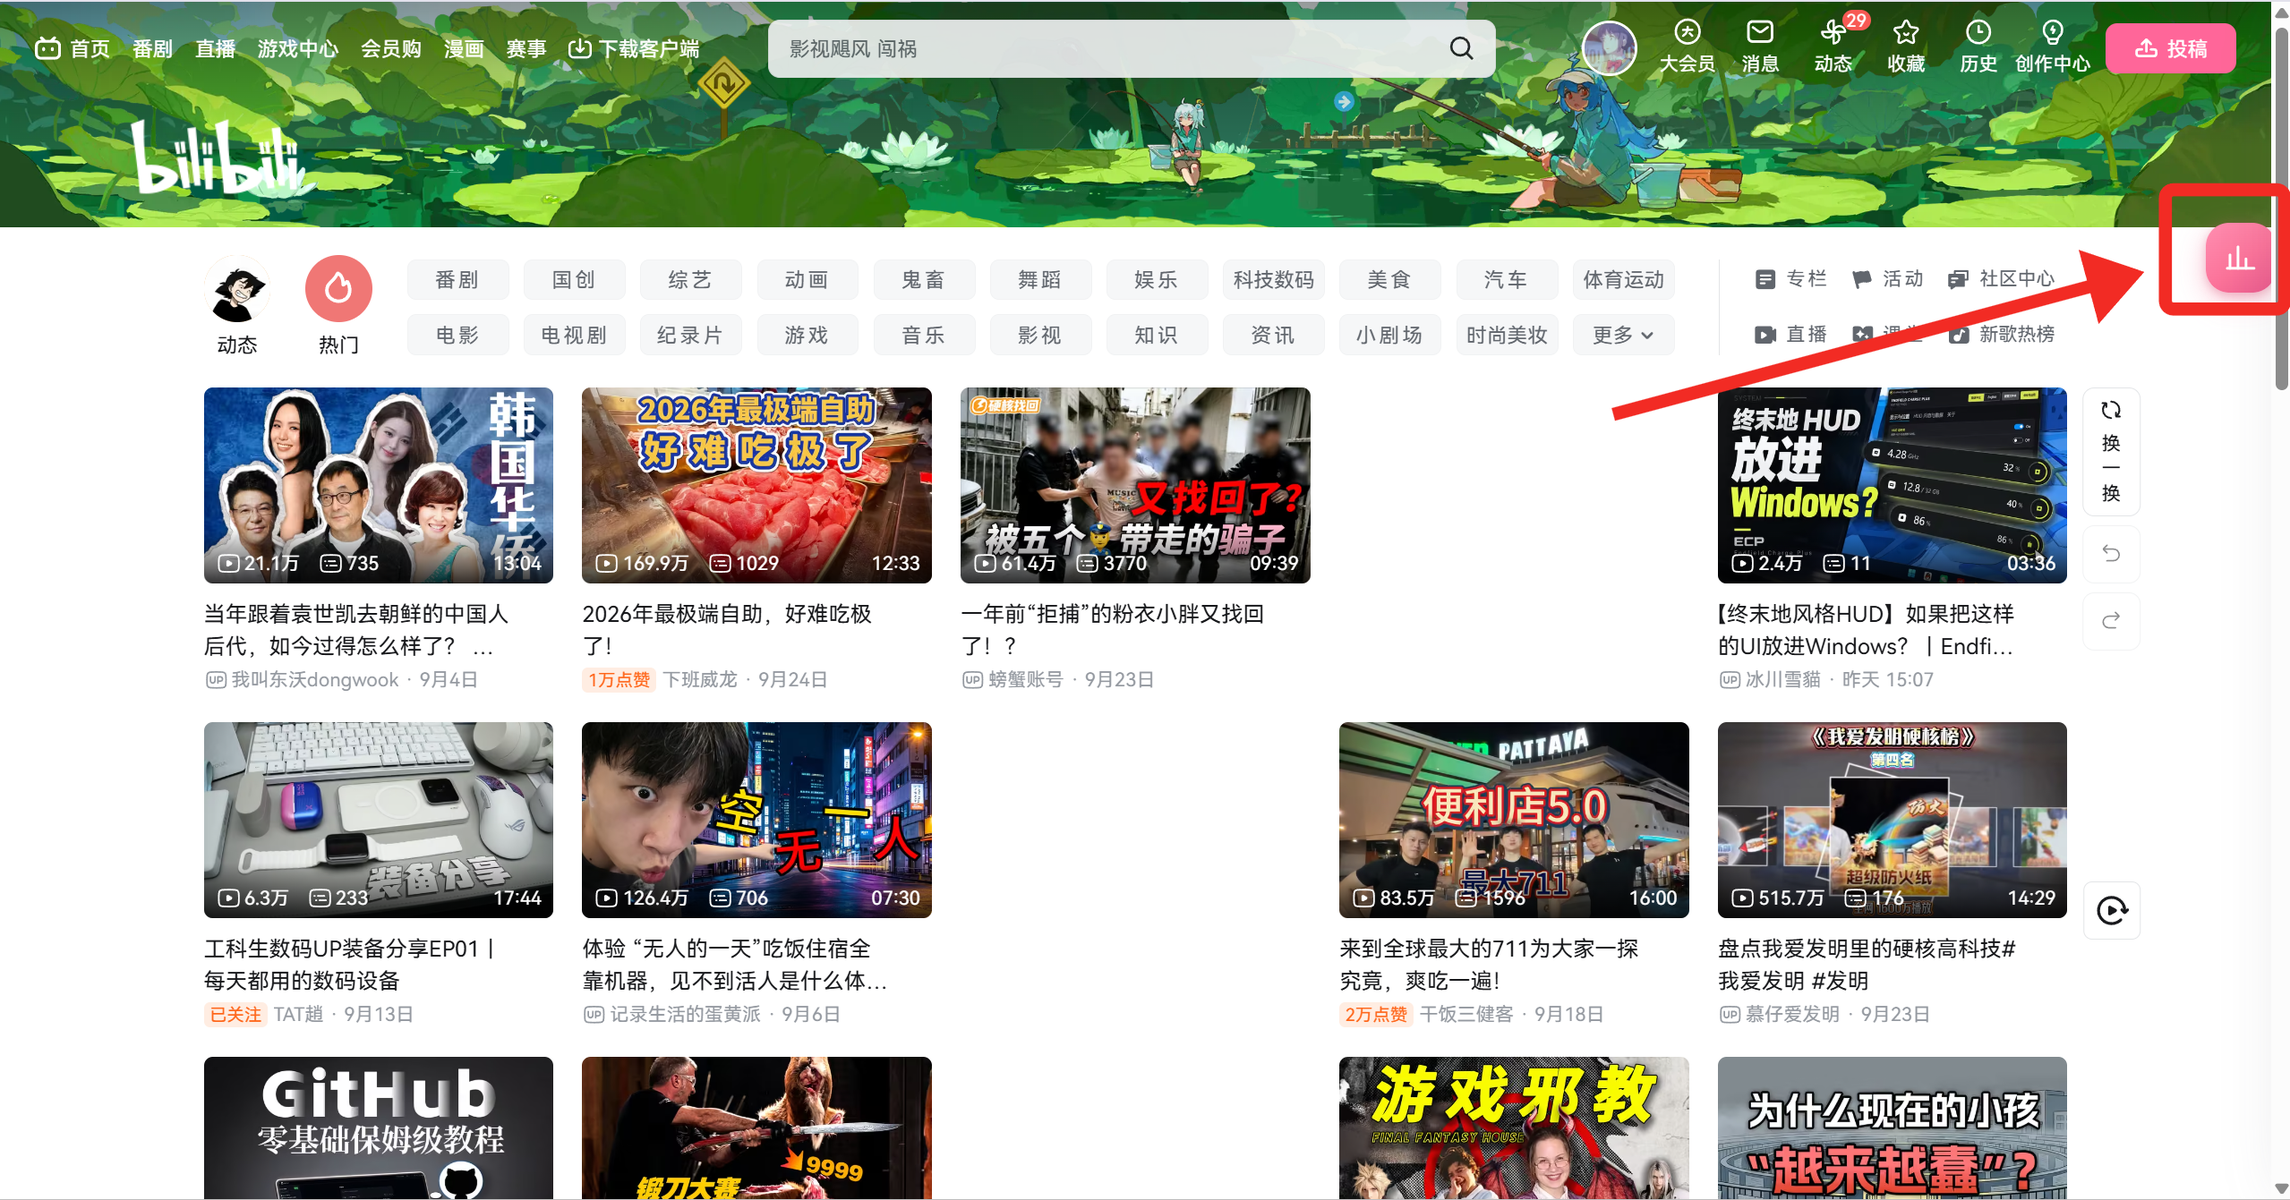
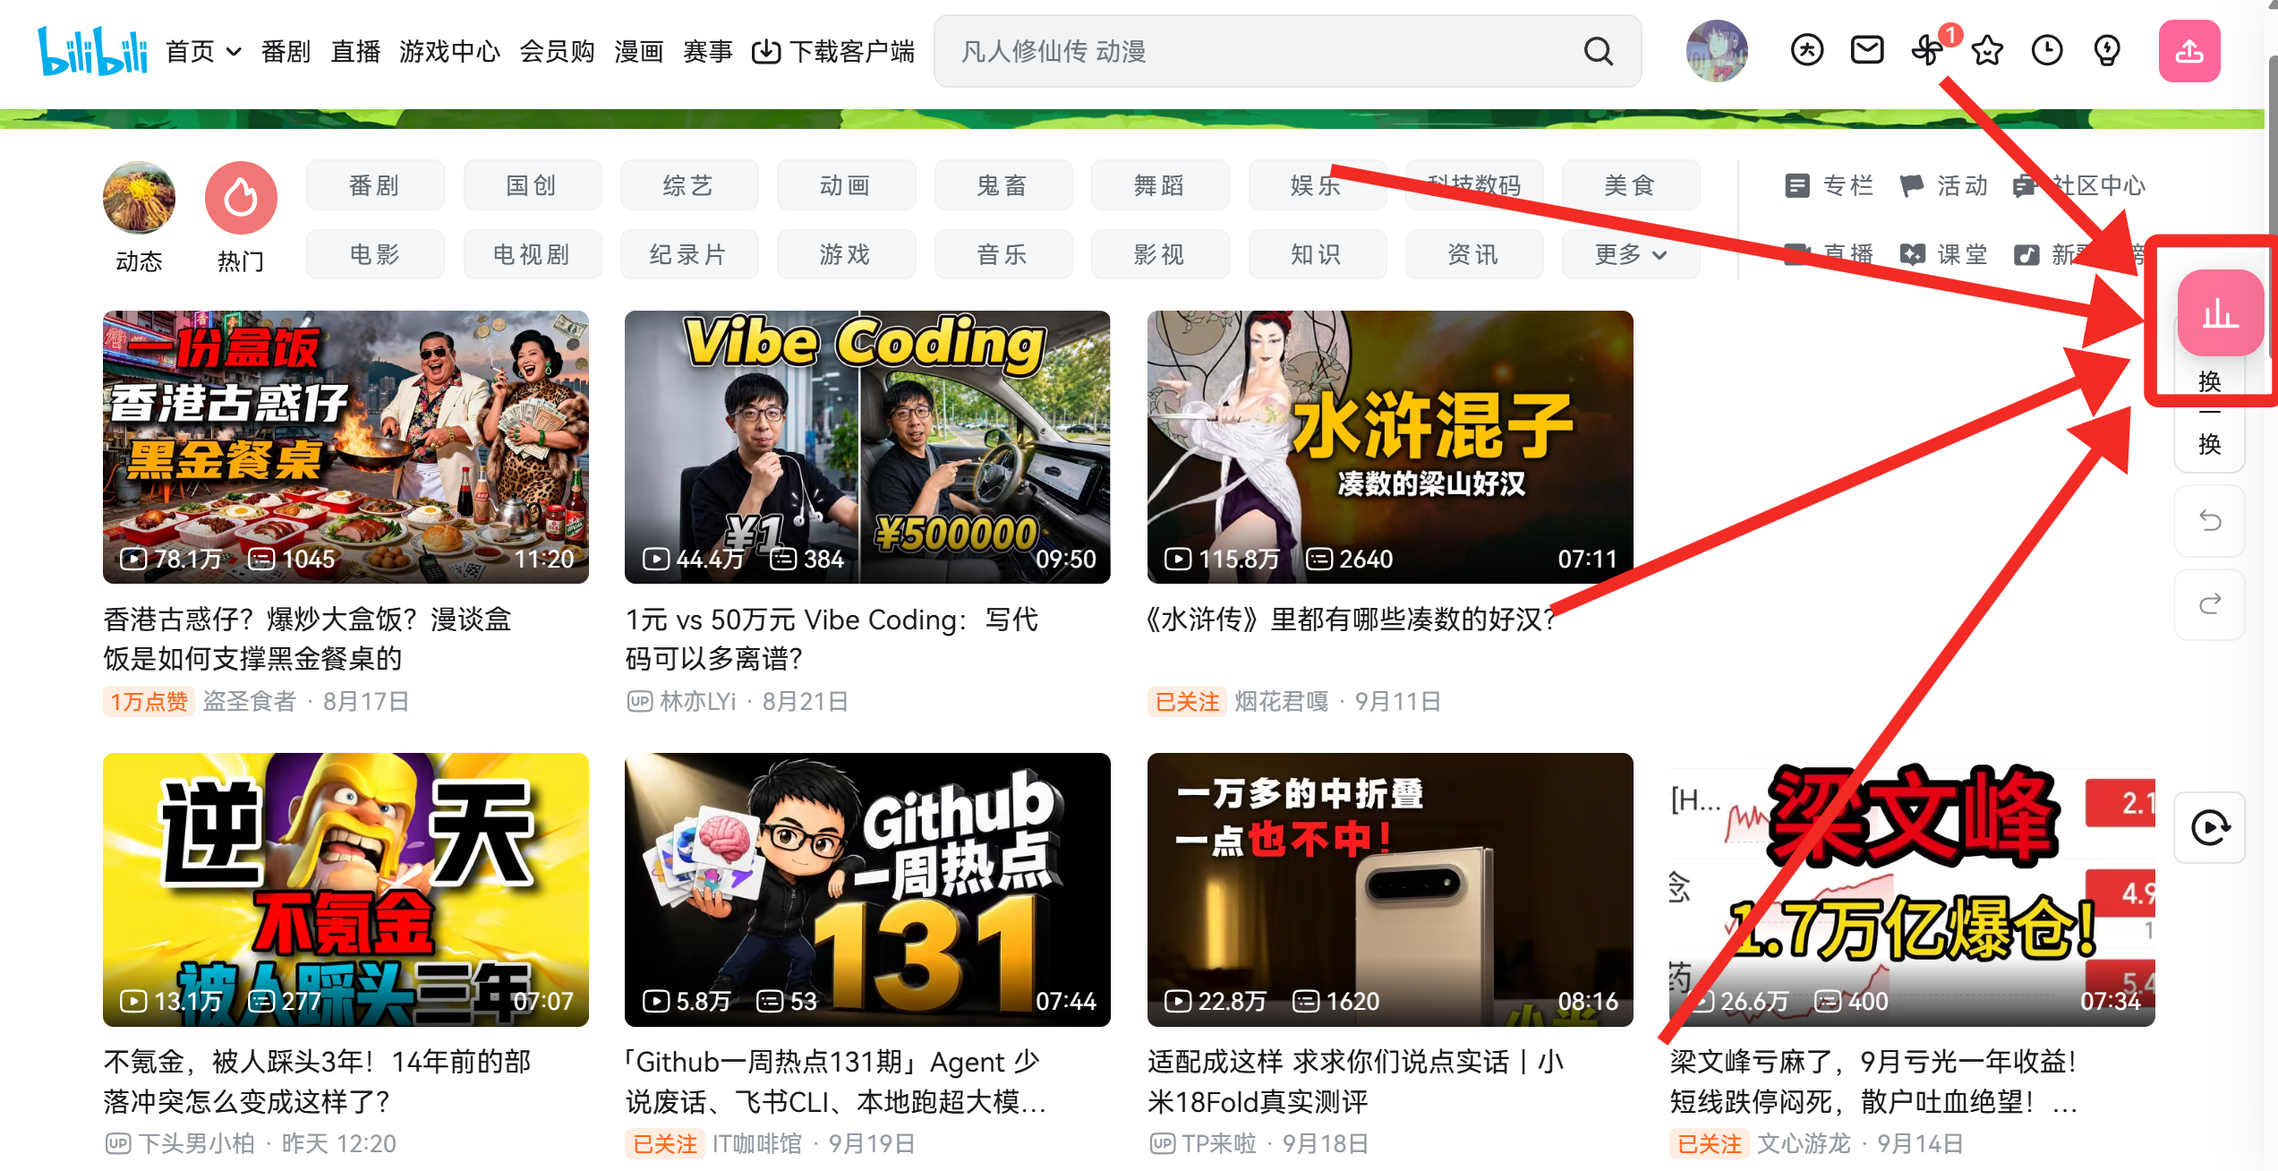
docs: 更新 README 截图与项目说明

diff --git a/README.md b/README.md
@@ -1,139 +1,175 @@
-# Bilibili Watch Panel · B站个人观看数据面板
+# Bilibili Watch Panel
 
-![version](https://img.shields.io/badge/version-0.7.0-fb7299)
-![Tampermonkey](https://img.shields.io/badge/Tampermonkey-compatible-4a90d9)
-![license](https://img.shields.io/badge/license-MIT-green)
+<p align="center">
+  <strong>本地优先的 B 站个人观看数据面板</strong><br>
+  在不上传观看数据的前提下，记录观看行为、分析观看质量，并生成一份可读的本周使用报告。
+</p>
 
-一个纯本地运行的 Tampermonkey 用户脚本：统计并可视化你在 B 站网页版看了什么、看了多久、看谁的，并生成卡片式「本周使用报告」。
+<p align="center">
+  <a href="https://github.com/Gavin-gwj/bilibili-watch-panel/releases/tag/v0.7.1"><img src="https://img.shields.io/badge/version-0.7.1-fb7299" alt="version"></a>
+  <img src="https://img.shields.io/badge/Tampermonkey-compatible-4a90d9" alt="Tampermonkey compatible">
+  <img src="https://img.shields.io/badge/storage-local--only-6c757d" alt="local only">
+  <img src="https://img.shields.io/badge/license-MIT-green" alt="MIT license">
+</p>
 
-> 安装文件：[`bilibili-watch-panel.user.js`](./bilibili-watch-panel.user.js)
-
----
-
-## ⚠ 合规与隐私声明（请先读）
-
-- 只统计**我自己本机浏览器**中的观看行为，数据**仅存在浏览器本地**（`GM_setValue`）。
-- **不上传任何数据**，仓库中也不包含任何观看数据。
-- **不爬取、不存储他人用户数据合集**。
-- **不破解、不绕过任何付费/会员机制**。
-- **不干扰 B 站正常功能与计费体系**。
-- 只读取页面**已公开加载**的数据，不批量请求接口。
-- 除「视频信息 API 兜底」（仅在页面信息缺失时触发一次并缓存 7 天）外，不额外发送任何请求。
-
-> 观看数据只存在于你本机浏览器的 Tampermonkey 存储中，与 GitHub 仓库完全无关。卸载脚本或清除浏览器扩展数据后记录会消失，请定期使用面板内的「导出 JSON 备份」。
+<p align="center">
+  <a href="https://github.com/Gavin-gwj/bilibili-watch-panel/releases/tag/v0.7.1">下载 v0.7.1</a> ·
+  <a href="./bilibili-watch-panel.user.js">查看用户脚本</a> ·
+  <a href="./CHANGELOG.md">版本记录</a>
+</p>
 
 ---
 
-## 安装说明（一键安装）
+## 这是什么？
 
-1. 安装浏览器扩展 **篡改猴 / Tampermonkey**（Chrome、Edge 均可在扩展商店获取）。
-2. 打开仓库中的 [`bilibili-watch-panel.user.js`](./bilibili-watch-panel.user.js)。
-3. 点击页面右上角的 **Raw**，Tampermonkey 会自动弹出安装页；若未弹出，则：
-   - 打开 Tampermonkey 面板 → 「添加新脚本」；
-   - 全选删除默认内容，粘贴本脚本全文；
-   - `Ctrl + S` 保存。
-4. 打开任意 B 站页面（视频页、首页、动态页均可），页面右上角会出现粉色浮动按钮（圆角方形，线性图表图标）。
-5. 点击按钮打开面板；采集观看数据需在**视频页**播放视频，其余页面仅用于查看数据。
+Bilibili Watch Panel 是一个**纯本地运行的 Tampermonkey 用户脚本**。它把分散在 B 站观看过程中的信息，整理成一个轻量的侧边数据面板：
 
----
+- 看了多久：今日、本周、全部累计时长
+- 看了什么：视频数量、观看记录、近一年观看热力图
+- 看谁的：UP 主排行、观看次数与时长占比
+- 看得怎么样：完播率、平均进度、重复观看和有效观看时长
+- 怎么变化：播放会话、中断率、每日趋势与本周报告
 
-## 界面截图
+> 截图中的数据来自本机浏览器示例，仅用于展示界面；脚本不会读取或上传其他用户的数据。
 
-脚本会在 B 站页面右侧显示粉色浮动按钮，点击后打开观看数据面板：
+## 从页面到面板
 
-![B 站页面中的面板入口](./docs/screenshots/entry-button.png)
+<p align="center">
+  <img src="./docs/screenshots/entry-button.png" alt="B站页面中的浮动入口" width="920">
+</p>
 
-面板按使用场景分为四个 Tab：
+在任意 B 站页面右侧，脚本提供一个可拖动的粉色浮动入口。点击后打开侧边面板；入口位置会在本地记忆，并在浏览器缩放或窗口尺寸变化后自动重新吸附到当前视口内。
 
-| Tab | 截图 | 可以看到什么 |
+## 界面一览
+
+<table>
+  <tr>
+    <td width="50%" valign="top">
+      <h3>今日 · 现在的观看状态</h3>
+      <img src="./docs/screenshots/panel-today.png" alt="今日数据面板">
+      <p>查看今日总时长、视频数、较昨日变化、观看质量和播放会话状态。</p>
+    </td>
+    <td width="50%" valign="top">
+      <h3>本周 · 一周观看节奏</h3>
+      <img src="./docs/screenshots/panel-week.png" alt="本周数据面板">
+      <p>查看近 7 / 30 天趋势、连续观看天数、质量指标和本周洞察。</p>
+    </td>
+  </tr>
+  <tr>
+    <td width="50%" valign="top">
+      <h3>全部 · 长期观看档案</h3>
+      <img src="./docs/screenshots/panel-all.png" alt="全部数据面板">
+      <p>查看累计数据、近一年热力图，并搜索或筛选完整观看记录。</p>
+    </td>
+    <td width="50%" valign="top">
+      <h3>报告 · 一页式周报</h3>
+      <img src="./docs/screenshots/panel-report.png" alt="本周使用报告">
+      <p>把本周总览、最爱 UP 主和每日时长整理成适合保存的报告卡片。</p>
+    </td>
+  </tr>
+</table>
+
+## 程序设计自述
+
+### 1. 本地优先：数据只在浏览器里流动
+
+脚本采用 Tampermonkey 的本地存储能力保存观看记录，不建立账号、不上传数据、不设置服务端。数据流可以概括为：
+
+```text
+B站页面公开信息
+        │
+        ▼
+视频事件采集 → 本地记录合并 → 统计口径计算 → Shadow DOM 面板渲染
+                                      │
+                                      ├─ JSON 导出 / 导入
+                                      └─ 本周报告图片导出
+```
+
+脚本只在视频页处理播放进度；首页、动态页等其他页面可以打开面板查看数据，但不会因为页面上的内嵌视频而写入观看记录。
+
+### 2. 以播放事件为核心，而不是用定时器猜测
+
+观看时长来自 `video.currentTime` 的实际推进量：暂停、卡顿、切到后台和缓冲不会被伪装成有效观看时长。v0.7 起，每条记录还会保存已结束播放会话的：
+
+- 开始时间与结束时间
+- 会话内有效观看秒数
+- 暂停次数、切后台次数和跳转次数
+- 自然结束、暂停、离开页面等结束原因
+
+这样做的好处是，统计结果能够区分“打开过视频”和“真正观看过视频”，并支持中断率、平均单次会话等质量指标。
+
+### 3. Shadow DOM 隔离界面样式
+
+面板挂载在独立的 Shadow DOM 中，颜色、圆角、阴影、间距和字体由设计令牌统一管理。这样既能保持 Bilibili Studio 风格的浅灰工作台视觉，也能减少 B 站页面自身 CSS 对面板的干扰。
+
+面板由四个互补的视图组成：
+
+| 视图 | 解决的问题 | 主要信息 |
 | --- | --- | --- |
-| 今日 | ![今日数据面板](./docs/screenshots/panel-today.png) | 今日总时长、观看视频数、活跃时段、UP 主分布和当天记录 |
-| 本周 | ![本周数据面板](./docs/screenshots/panel-week.png) | 近 7 天时长趋势、连续观看天数和本周 Top5 UP 主 |
-| 全部 | ![全部数据面板](./docs/screenshots/panel-all.png) | 累计统计、近一年热力图、搜索和完整观看记录 |
-| 报告 | ![本周使用报告](./docs/screenshots/panel-report.png) | 本周总览、最爱 UP 主、每日时长图表和导出入口 |
+| 今日 | 我今天看了什么？ | 时长、视频数、质量、会话、趋势 |
+| 本周 | 我这周的节奏如何？ | 近 7 / 30 天、连续观看、环比、洞察 |
+| 全部 | 我的长期观看档案是什么？ | 累计统计、热力图、搜索、记录详情 |
+| 报告 | 如何快速回顾这一周？ | 总览、Top5 UP 主、每日图表、总结 |
 
-截图中的数据来自本机浏览器示例，仅用于展示界面；实际内容会随着你的观看记录变化。
+### 4. 面向长期使用的数据兼容策略
 
----
+脚本使用 schema 版本管理本地数据。升级时会兼容已有旧记录，补齐缺失字段，但不会根据旧记录的累计秒数虚构历史完播或播放会话；JSON 导入则采用合并与去重策略，避免重复导入造成重复统计。
 
-## 功能说明
+## 核心功能
 
-### 1. 个人观看数据面板
+### 观看数据
 
-| Tab | 内容 |
-| --- | --- |
-| 今日 | 今日总时长、视频数、观看质量（完播率 / 平均进度 / 重复观看 / 平均单视频时长）、会话中断率 / 平均单次会话、活跃时段、记录进度 |
-| 本周 | 近 7 天时长、每日完播率和平均进度图表、Top5 UP 主、连续观看天数、环比上周 |
-| 全部 | 累计质量摘要、会话分析、进度 / 重看次数、已完播 / 未完播 / 进度未知筛选、近一年热力图；点击记录可查看详情 |
-| 报告 | 卡片式本周使用报告，增加完播率、平均进度、重复观看、中断率和平均单次会话摘要，可导出 PNG 图片 |
+- 今日、本周、全部和报告四个 Tab
+- 今日 / 本周 / 累计观看时长与视频数
+- 完播率、平均进度、重复观看、平均单视频时长
+- 播放会话数、会话中断率、平均单次有效观看时长
+- UP 主排行、每日时长趋势、近一年观看热力图
+- 观看记录搜索、排序、筛选和详情抽屉
 
-观看质量数据全部来自视频元素本地事件：视频总时长、最高播放位置、有效播放会话次数、播放会话边界和完播判定。旧记录会自动补齐字段，但不会根据累计观看秒数伪造完播结果或播放会话。
+### 数据管理
 
-v0.7 起，每条记录会保存已结束播放会话的开始/结束时间、会话内观看秒数、暂停次数、切后台次数、跳转次数和结束原因。点击「今日」或「全部」中的记录，可打开详情抽屉查看首次观看、最近观看、会话数、中断率和平均单次有效观看时长。
+- **导出 JSON**：下载 `bwp-backup-YYYY-MM-DD.json` 本地备份
+- **导入 JSON**：合并记录、补齐信息、去重播放会话
+- **导出报告图片**：生成 `bwp-week-report-YYYY-Www.png`
+- **清空数据**：双重确认，避免误操作
+- **自动更新**：通过 `@updateURL` / `@downloadURL` 检查新版本
 
-### 2. 本周使用报告
+## 安装
 
-- 顶部大数字卡：本周总时长、本周视频数
-- 最爱 UP 主 Top5：名称 + 观看次数 + 时长（带占比条）
-- 每日时长迷你折线卡
-- 观看高峰时段卡：凌晨 / 上午 / 下午 / 晚上四段
-- 底部一句话自动总结
-- 「导出图片」按钮：生成 `bwp-week-report-YYYY-Www.png` 下载
-- 每周日首次打开 B 站时，右下角轻提示，点击直达报告 Tab（`lastReminderWeek` 去重，每周一次）
+1. 安装浏览器扩展 **篡改猴 / Tampermonkey**。
+2. 打开 [`bilibili-watch-panel.user.js`](./bilibili-watch-panel.user.js)。
+3. 点击右上角 **Raw**，Tampermonkey 会打开安装页。
+4. 安装完成后打开任意 B 站页面，点击右侧粉色浮动按钮。
+5. 在视频页播放视频后，面板会开始记录观看数据。
 
-### 3. 数据管理
+也可以直接从 [v0.7.1 Release](https://github.com/Gavin-gwj/bilibili-watch-panel/releases/tag/v0.7.1) 下载脚本。
 
-- **导出 JSON 备份**：面板底部一键下载 `bwp-backup-YYYY-MM-DD.json`，含 `watchRecords` 与归档。
-- **导入 JSON 备份**：面板底部「导入JSON」选择备份文件，按「日期 + bvid」与现有数据合并；同一天同一视频保留时长较大者，合并并去重播放会话，`openCount` 取较大值，缺失的标题 / UP 主信息自动补齐。
-- **清空全部数据**：带**两次确认**，清空后不可恢复。
-- **拖动浮动按钮**：按住拖动，松手自动吸附左右边缘，位置本地记忆，任意 B 站页面均可使用。
-- **自动更新**：脚本声明了 `@updateURL` / `@downloadURL`，Tampermonkey 会按 `@version` 自动检查新版本。
+## 隐私与合规
 
-### 4. 统计口径
+- 只统计当前浏览器中本人的观看行为。
+- 数据只存储在 Tampermonkey 的本地存储中。
+- 不上传观看数据，不建立服务器账号体系。
+- 不批量爬取，不破解或绕过会员、付费机制。
+- 只读取页面已经公开加载的信息，不干扰 B 站正常功能与计费体系。
+- 除页面信息缺失时的一次性视频信息 API 兜底请求外，不额外发送批量请求；兜底结果会在本地缓存 7 天。
 
-- 按 **实际播放进度（`video.currentTime` 推进量）** 统计，不乘倍速，卡顿/缓冲不计。
-- 同一自然日、同一视频只保留一条记录，重复打开累加时长并增加 `openCount`。
-- 一周以**周一**为起点，周报按 ISO 周标识（如 `2026-W40`）。
-- 数据超过 5000 条自动归档旧记录，保证长期使用不卡顿；归档达到 20000 条上限时会裁剪最旧记录，并在面板内提示。
+> 卸载脚本或清除浏览器扩展数据后，本地记录会消失。建议定期使用「导出 JSON」备份。
 
----
-
-## 常见问题（FAQ）
+## 常见问题
 
 | 问题 | 回答 |
 | --- | --- |
-| 数据存在哪？ | 只存在本机浏览器的 Tampermonkey 扩展存储里（`GM_setValue`）。仓库与任何服务器都收不到你的数据。 |
-| 会不会上传我的数据？ | 不会。脚本没有任何数据上报端点，也不使用 `XMLHttpRequest`/`sendBeacon`。 |
-| 怎么清空数据？ | 面板底部设置区 → 「清空全部数据」→ 两次确认。 |
-| 怎么导出/迁移数据？ | 面板底部 → 「导出JSON」得到完整备份；在新浏览器 / 新设备装好脚本后点「导入JSON」即可合并，重复记录自动去重。 |
-| 会不会拖慢 B 站？ | 心跳每 5 秒一次轻量计算；面板关闭时不渲染图表；关闭面板会销毁全部 Chart 实例；存储写入有 15 秒节流。 |
-| 为什么时长比实际看的少？ | 只统计 `video.currentTime` 的真实推进；卡顿、缓冲、切后台、暂停都不计入。 |
-| B 站改版后不显示数据了怎么办？ | 所有页面选择器集中在脚本的 `SELECTORS` 常量区，改版后只需更新对应选择器，不影响已有数据。 |
-| 会员/番剧/直播会统计吗？ | 不会。只处理 `/video/` 路径，且不破解、不绕过任何付费机制。 |
+| 数据存在哪里？ | 只在本机浏览器的 Tampermonkey 扩展存储中，仓库和服务器都收不到。 |
+| 为什么时长比实际看的少？ | 脚本只统计 `video.currentTime` 的真实推进；暂停、卡顿、缓冲和切后台不计入。 |
+| 如何迁移到新设备？ | 在旧设备导出 JSON，在新设备安装脚本后使用「导入 JSON」合并。 |
+| B 站改版后没有数据怎么办？ | 页面选择器集中在脚本的 `SELECTORS` 常量区，可针对改版更新选择器。 |
+| 浏览器缩放后按钮不见了怎么办？ | v0.7.1 已加入视口重定位逻辑；刷新页面后按钮会自动回到当前可视区域。 |
 
----
+## 版本
 
-### v0.6 数据洞察
-
-- 「本周」支持近 7 天 / 近 30 天切换。
-- 根据本地记录生成观看洞察，并提供本周与上周的时长、视频数、完播率、平均进度对比。
-- 「全部」记录可按最近观看、观看时长、观看进度排序。
-- 可设置每周观看目标；目标配置不会上传，并随 JSON 备份保存。
-
-### v0.7 播放会话增强
-
-- 记录每次播放会话开始和结束时间，以及暂停、切后台和跳转次数。
-- 中断率按非自然结束会话占比计算；没有 v0.7 会话数据时显示暂无数据。
-- 数据 schema 升级到 v3，旧 v2 数据和旧 JSON 备份自动兼容，不推断历史会话。
-
-## 版本历史
-
-见 [CHANGELOG.md](./CHANGELOG.md)。
-
-## 参与 / 反馈
-
-本项目仅供作者自己使用，欢迎在仓库提 Issue 记录想法或问题：
-<https://github.com/Gavin-gwj/bilibili-watch-panel/issues>
+- **v0.7.1**：修复浏览器缩放后浮动按钮可能超出视口的问题，并在窗口尺寸变化时自动重新定位。
+- **v0.7.0**：加入播放会话、会话中断率和详情抽屉。
+- 完整历史见 [`CHANGELOG.md`](./CHANGELOG.md)。
 
 ## License
 
